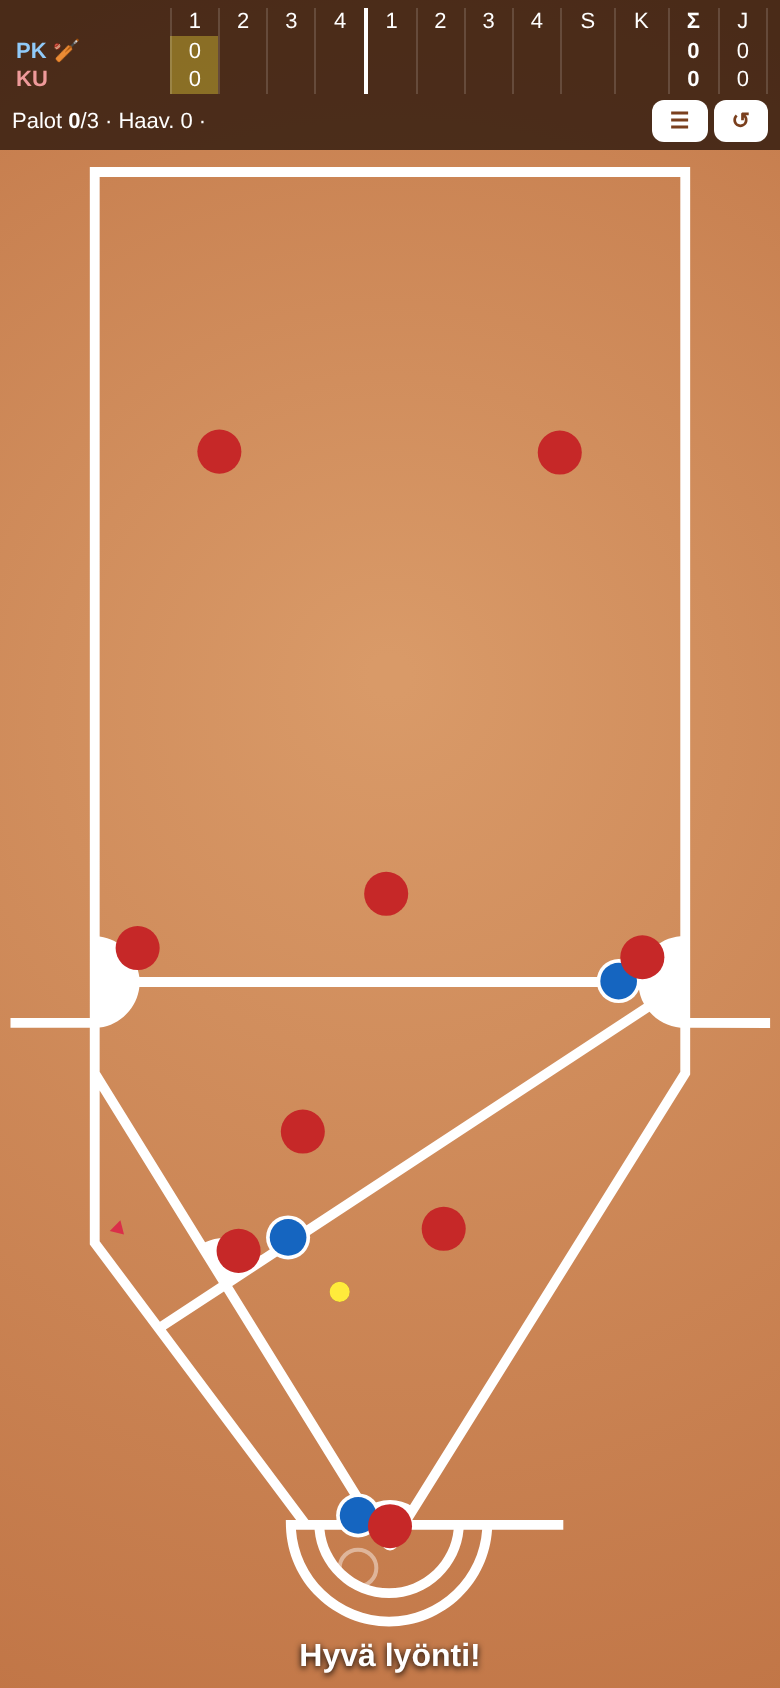
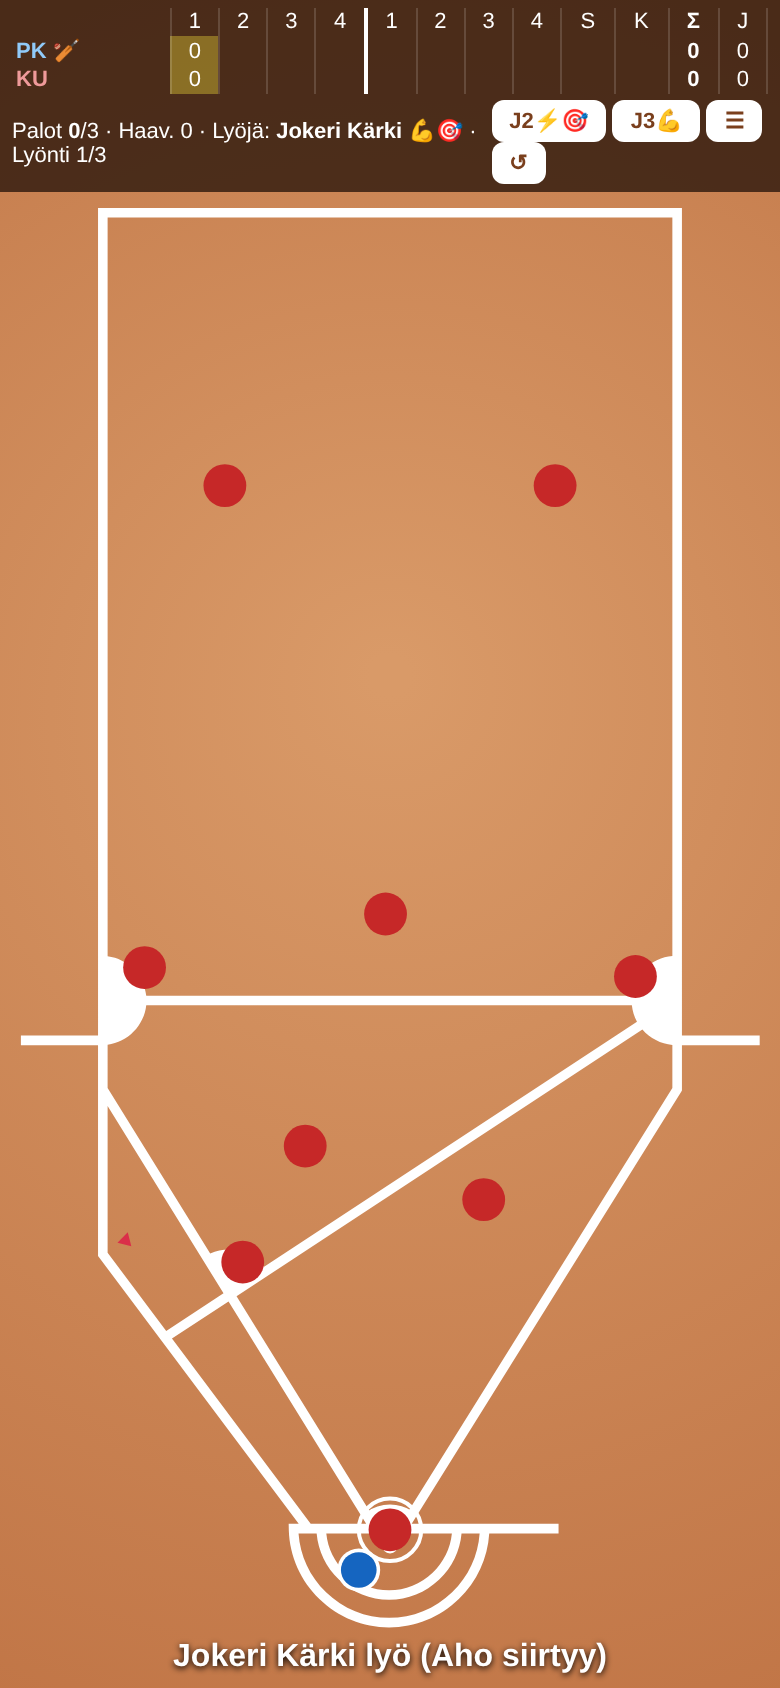
Jokerit, lähtö syötöstä, AI-viiveet ja pisteiden tasapainotus

diff --git a/index.html b/index.html
@@ -15,7 +15,7 @@ button{font:inherit;border:0;border-radius:6px;padding:4px 9px;background:#fff;c
 #ovc h2{margin:0 0 8px}#ovc table{width:100%;font-size:13px;border-collapse:collapse}#ovc td{padding:2px 4px;border-bottom:1px solid rgba(255,255,255,.1)}
 #ovb{margin-top:12px;width:100%;padding:10px;font-size:16px}</style></head><body>
 <canvas id="c"></canvas>
-<div id="hud"><table id="sb"></table><div id="info"><span id="st"></span><span><button id="rb">☰</button> <button id="rs">↺</button></span></div></div>
+<div id="hud"><table id="sb"></table><div id="info"><span id="st"></span><span><span id="jb"></span> <button id="rb">☰</button> <button id="rs">↺</button></span></div></div>
 <div id="msg"></div><div id="ov"><div id="ovc"><div id="ovt"></div><button id="ovb">OK</button></div></div>
 <script>
 "use strict";
@@ -32,8 +32,10 @@ const POS=[[42.5,149],[26,119],[70,87],[15,86],[33,106],[53,112],[42,80],[24,32]
 // ---- joukkueet ----
 const AB={K:['💪','kova lyöjä: pidemmät lyönnit'],T:['🎯','tarkka lyöjä: lyönnit menevät tähdättyyn'],N:['⚡','nopea juoksija/kenttäpelaaja'],C:['🧤','hyvä koppari: suurempi kiinniottoalue'],H:['🏹','tarkka heittäjä: leveämpi vihreä alue'],L:['🌀','lukkari: vähemmän vääriä syöttöjä']};
 const mkT=(name,sh,col,l)=>({name,sh,col,pl:l.map(([n,a])=>({n,a})),next:0,runs:[]});
+const JK=[[['Jokeri Kärki','KT'],['Jokeri Pika','NT'],['Jokeri Moukari','K']],[['Jokeri Ässä','KT'],['Jokeri Salama','N'],['Jokeri Tykki','KN']]];
 const T=[mkT('Pesäkarhut','PK','#1565c0',[['Aho','L'],['Virtanen','KN'],['Korhonen','T'],['Mäkinen','C'],['Nieminen','N'],['Lehtonen','KH'],['Laine','C'],['Heikkinen','TH'],['Koskinen','N']]),
  mkT('Kuninkaat','KU','#c62828',[['Järvinen','L'],['Saarinen','K'],['Salo','TN'],['Hämäläinen','C'],['Lindholm','N'],['Ojala','KH'],['Rantanen','C'],['Kallio','T'],['Peltonen','H']])];
+T.forEach((t,i)=>t.jk=JK[i].map(([n,a])=>({n,a,j:1})));
 const has=(p,c)=>p.a.includes(c),ic=p=>[...p.a].map(c=>AB[c][0]).join('');
 const d2=(a,b)=>Math.hypot(a.x-b.x,a.y-b.y),rnd=Math.random,clamp=(v,a,b)=>Math.max(a,Math.min(b,v));
 let G,F=[],R=[],ball,hold=null,phase='wait',tapMark=null;
@@ -44,15 +46,17 @@ function makeF(t){const pl=t.pl.slice(),out=[];const take=f=>{const i=pl.findInd
 // ---- ottelu ----
 function newGame(){T.forEach(t=>{t.next=0;t.runs=[]});G={pi:0,half:0,stage:'n',over:false,play:0};
  ov('<h2>Pesäpallo</h2>Sinä: <b style="color:#90caf9">Pesäkarhut</b> (kotijoukkue, aloittaa ulkovuorossa).<br>Ottelu: 2 jaksoa × 4 vuoroparia, tasatilanteessa supervuoropari ja kotiutuskilpailu.'+help()+roster(),'Aloita',startHalf);}
-function help(){return '<p><b>Ulkovuoro:</b> napauta kenttää → lukkari syöttää. Kun pallo on pelaajallasi, <b>paina ja pidä</b> pesää tai toista pelaajaa: vapauta kun mittari on vihreällä. Liian lyhyt = hidas heitto, liian pitkä = epätarkka. Pallo pesällä ennen etenijää = palo.</p><p><b>Sisävuoro:</b> lukkari syöttää itse. <b>Napauta kohtaa, johon haluat lyödä</b>, kun pallo putoaa lautaselle (rengas vihertää). Napauta <b>lyöjää</b> lähettääksesi hänet ykköselle ja <b>etenijää</b> lähettääksesi hänet seuraavalle pesälle (myös syötön aikana).</p>'}
-function roster(){let s='<table>';T.forEach(t=>{s+='<tr><td colspan=2 style="color:'+(t===T[0]?'#90caf9':'#ef9a9a')+'"><b>'+t.name+'</b></td></tr>';t.pl.forEach((p,i)=>s+='<tr><td>'+(i+1)+'. '+p.n+'</td><td>'+ic(p)+'</td></tr>')});
+function help(){return '<p><b>Ulkovuoro:</b> napauta kenttää → lukkari syöttää. Kun pallo on pelaajallasi, <b>paina ja pidä</b> pesää tai toista pelaajaa: vapauta kun mittari on vihreällä. Liian lyhyt = hidas heitto, liian pitkä = epätarkka. Pallo pesällä ennen etenijää = palo.</p><p><b>Sisävuoro:</b> lukkari syöttää itse. <b>Napauta kohtaa, johon haluat lyödä</b>, kun pallo putoaa lautaselle (rengas vihertää). <b>Jokerit</b> (J1–J3, yläpalkki): vaihda lyöjä jokeriin ennen ensimmäistä syöttöä, kukin kerran vuorossa. Napauta <b>lyöjää</b> lähettääksesi hänet ykköselle ja <b>etenijää</b> lähettääksesi hänet seuraavalle pesälle (myös syötön aikana).</p>'}
+function roster(){let s='<table>';T.forEach(t=>{s+='<tr><td colspan=2 style="color:'+(t===T[0]?'#90caf9':'#ef9a9a')+'"><b>'+t.name+'</b></td></tr>';t.pl.concat(t.jk).forEach((p,i)=>s+='<tr><td>'+(i+1)+'. '+p.n+'</td><td>'+ic(p)+'</td></tr>')});
  return s+'</table><p style="font-size:12px">'+Object.values(AB).map(a=>a[0]+' '+a[1]).join('<br>')+'</p>'}
 function plabel(){return G.stage==='n'?(G.pi<4?'1. jakso, '+(G.pi+1)+'. vuoropari':'2. jakso, '+(G.pi-3)+'. vuoropari'):G.stage==='s'?'Supervuoropari':'Kotiutuskilpailu'}
-function startHalf(){const bt=batT(),t=T[bt];G.palot=0;G.haav=0;G.pairs=0;G.pairScored=false;R=[];G.queue=[];
+function startHalf(){const bt=batT(),t=T[bt];G.jUsed=[];G.subbed=false;G.palot=0;G.haav=0;G.pairs=0;G.pairScored=false;R=[];G.queue=[];
  for(let i=0;i<9;i++)G.queue.push(t.pl[(t.next+i)%9]);F=makeF(T[1-bt]);if(t.runs[G.pi]==null)t.runs[G.pi]=0;if(T[1-bt].runs[G.pi]==null)T[1-bt].runs[G.pi]=0;
  G.batter=null;if(G.stage==='k')startPair();else nextBatter();resetBall();phase='pre';G.preT=0;
  say(plabel()+': '+(bt===0&&!AUTO?'sinä lyöt':T[bt].name+' lyö'));}
-function nextBatter(){const p=G.queue.shift();G.batter=p||null;G.lyonnit=0;G.vaarat=0;if(p){const t=T[batT()];t.next=(t.pl.indexOf(p)+1)%9}return !!p}
+function useJoker(i){const t=T[batT()],j=t.jk[i];if(!j||!G.batter||G.batter.j||G.jUsed.includes(i)||G.lyonnit>0||phase!=='pre'||G.stage==='k')return false;G.jUsed.push(i);G.queue.unshift(G.batter);G.batter=j;say(j.n+' lyö ('+G.queue[0].n+' siirtyy)');return true}
+function aiJoker(){const t=T[batT()];if(hB()||G.stage==='k'||!G.batter||G.batter.j||G.lyonnit>0)return;const pres=R.some(r=>r.base>=2&&r.st==='safe');if(pres&&!has(G.batter,'K')&&rnd()<.5){const i=[0,1,2].find(i=>!G.jUsed.includes(i));if(i!=null)useJoker(i)}}
+function nextBatter(){const p=G.queue.shift();G.batter=p||null;G.lyonnit=0;G.vaarat=0;if(p){const t=T[batT()];if(t.pl.includes(p))t.next=(t.pl.indexOf(p)+1)%9}return !!p}
 function startPair(){R=[];const a=G.queue.shift();G.queue.push(a);R.push(mkR(a,3));nextBatter();G.queue.push(G.batter);G.pairScored=false;}
 function mkR(p,b){return{p,base:b,st:'safe',from:b,to:b,prog:0,x:B[b].x,y:B[b].y,sp:has(p,'N')?14.5:12.5,bat:false,free:false}}
 function resetBall(){ball={x:PLATE.x,y:PLATE.y,h:0,vx:0,vy:0,vh:0,s:'held',hold:F[0],hit:false,bounced:false};F[0].x=F[0].hx;F[0].y=F[0].hy;hold=null;G.endT=0;G.playT=0;}
@@ -73,7 +77,7 @@ function tot(t){return T[t].runs.slice(0,8).reduce((a,b)=>a+(b||0),0)}
 function finish(w,note){phase='over';G.over=true;G.winner=w;const r=w<0?'Tasapeli':(w===0?'VOITIT! ':'Hävisit. ')+T[w].name+' voitti ottelun.';
  if(AUTO){updHud();return}ov('<h2>Ottelu päättyi</h2>'+note+'<br><b>'+r+'</b><br>Jaksot '+jaksoWins().join('–')+', juoksut '+tot(0)+'–'+tot(1),'Uusi ottelu',newGame)}
 // ---- syöttö & lyönti ----
-function doPitch(){if(phase!=='pre')return;phase='pitch';G.play++;G.swung=false;G.playT=0;const L=F[0].p,va=rnd()<(has(L,'L')?.07:.17);
+function doPitch(){if(phase!=='pre')return;aiJoker();phase='pitch';G.play++;G.swung=false;G.playT=0;const L=F[0].p,va=rnd()<(has(L,'L')?.07:.17);
  ball={x:PLATE.x+(va?(rnd()<.5?-3.4:3.4):0),y:PLATE.y,h:0,vx:0,vy:0,vh:30,s:'pitch',hold:null,vaara:va,hit:false,bounced:false};
  const bp=G.batter;G.aiH=(!hB()&&bp)?((va&&rnd()<.75)?-1:3.2+(rnd()-.5)*(has(bp,'T')?1.8:3)):-1;}
 function timingQ(){if(ball.vh>=0||ball.h>6||ball.h<.7)return 0;return Math.max(.05,1-Math.abs(ball.h-3.2)/2.8)}
@@ -86,11 +90,11 @@ function doSwing(q,aim){if(G.swung||!G.batter)return;G.swung=true;const p=G.batt
  const low=rnd()<(has(p,'T')?.6:.5),vh=low?2.5+rnd()*5:12+rnd()*12,t=2*vh/40,v=Math.min(dist/(t+.32),32+42*pw*(.4+.6*q));ball={x:PLATE.x,y:PLATE.y-1,h:1,vx:Math.cos(ang)*v,vy:Math.sin(ang)*v,vh,s:'flight',hold:null,hit:true,bounced:false,age:0};
  phase='play';G.playT=0;G.endT=0;G.aiRunT=0;say(q>.75?'Hyvä lyönti!':'Lyönti');
  const forced=G.lyonnit>=3&&G.stage!=='k',lt=t+.3,land={x:clamp(PLATE.x+ball.vx*lt,XL,XR),y:clamp(PLATE.y+ball.vy*lt,YT,YB)};
- const ok=(from,sp)=>{if(!low&&rnd()<.85)return false;const nb=B[(from+1)%4];const lg=d2(B[from],nb);return lg/sp<(t+1.1+d2(land,nb)/42)*(low?1.35:1.05)*(lg>45?.8:1.15)*(.8+rnd()*.4)};
- if(!hB())R.slice().sort((a,b)=>b.base-a.base).forEach(r=>{if(r.st==='safe'&&ok(r.base,r.sp))send(r)});
- if(forced)batterRun();else if(!hB()&&G.stage!=='k'&&ok(0,has(p,'N')?14.5:12.5)&&!occ(1))batterRun()}
+ const ok=(from,sp)=>{if(!low&&rnd()<.85)return false;const nb=B[(from+1)%4];const lg=d2(B[from],nb);return lg/sp<(t+1.1+d2(land,nb)/42)*(low?1.35:1.05)*(lg>45?.8:1.15)*(G.stage==='k'?1.5:1.2)*(.8+rnd()*.4)};
+ if(!hB())R.slice().sort((a,b)=>b.base-a.base).forEach(r=>{if(r.st==='safe'&&ok(r.base,r.sp*1.5))send(r)});
+ if(forced)batterRun();else if(!hB()&&G.stage!=='k'&&ok(0,(has(p,'N')?14.5:12.5)*1.4)&&!occ(1))batterRun();R.forEach(r=>{if(r.st==='run'&&r.playId===G.play&&!r.bat)r.prog=Math.min(.9,r.prog+.9*r.sp/d2(B[r.from],B[r.to]))});}
 function useLyonti(){G.lyonnit++;if(G.lyonnit>=3){if(G.stage==='k'){phase='play';ball={...ball,s:'held',hold:F[0],h:0};return}
- say('3. lyönti – lyöjän on lähdettävä!');phase='play';G.playT=0;G.endT=0;resetHoldLukkari();batterRun();}else{G.dead=.7;phase='dead'}}
+ say('3. lyönti meni – PALO!');G.palot++;G.queue.push(G.batter);G.batter=null;if(G.palot>=3)G.endPalo=.9;phase='play';G.playT=0;G.endT=0;resetHoldLukkari();}else{G.dead=.7;phase='dead'}}
 function resetHoldLukkari(){ball={x:F[0].x,y:F[0].y,h:0,vx:0,vy:0,vh:0,s:'held',hold:F[0],hit:false,bounced:false}}
 function pitchLanded(){if(ball.vaara){G.vaarat++;if(G.vaarat>=2){G.vaarat=0;say('2 väärää – vapaataival!');vapaataival()}else say('Väärä syöttö');G.dead=.7;phase='dead'}
  else{say('Syöttö meni ohi (lyönti)');useLyonti()}}
@@ -110,7 +114,7 @@ function throwTo(t,q){const f=ball.hold,sw=f.sw;let tx=t.x,ty=t.y,sp,dev=0;
  if(q<sw[0])sp=16+18*q/sw[0];else if(q<=sw[1])sp=42;else{sp=40;dev=8+40*Math.min(1,(q-sw[1])/(1-sw[1]))}
  if(dev){const a=rnd()*6.28,r=dev*(.4+.6*rnd());tx+=Math.cos(a)*r;ty+=Math.sin(a)*r;if(hF())say('Epätarkka heitto!')}else if(hF())say(q<sw[0]?'Hidas heitto':'Hyvä heitto!');
  const L=Math.hypot(tx-f.x,ty-f.y)||1;ball={x:f.x,y:f.y,h:1,vx:(tx-f.x)/L*sp,vy:(ty-f.y)/L*sp,vh:0,s:'throw',hold:null,tgt:t,rem:L/sp,hit:false,bounced:true};}
-function catchBy(f,base){ball.s='held';ball.hold=f;ball.h=0;ball.vx=ball.vy=0;ball.x=f.x;ball.y=f.y;G.aiT=0;G.aiD=.45+rnd()*.5;if(base!=null)burnAt(base)}
+function catchBy(f,base){ball.s='held';ball.hold=f;ball.h=0;ball.vx=ball.vy=0;ball.x=f.x;ball.y=f.y;G.aiT=0;G.aiD=.9+rnd()*.7;if(base!=null)burnAt(base)}
 function nearF(p,ex){let b=null,bd=1e9;F.forEach(f=>{if(f===ex)return;const d=d2(f,p);if(d<bd){bd=d;b=f}});return b}
 function aiThrow(h){let best=null,bm=.1;R.forEach(r=>{if(r.st!=='run'||r.free)return;const bp=B[r.to],tr=(1-r.prog)*d2(B[r.from],bp)/r.sp,tb=d2(h,bp)/42+.25;
   const rc=nearF(bp,h);if(d2(rc,bp)>9)return;if(tr-tb>bm){bm=tr-tb;best=r.to}});
@@ -149,7 +153,7 @@ function step(dt){if(G.msgT>0&&(G.msgT-=dt)<=0)$('msg').textContent='';if(phase=
   r.x=a.x+(c.x-a.x)*r.prog;r.y=a.y+(c.y-a.y)*r.prog}
  // AI etenijät pelin aikana
  if(phase==='play'&&!hB()&&G.stage!=='k'||phase==='play'&&!hB()&&G.stage==='k'){G.aiRunT=(G.aiRunT||0)+dt;if(G.aiRunT>.4){G.aiRunT=0;
-  if(!(b.s==='flight'&&b.hit&&!b.bounced))R.slice().sort((x,y)=>(y.base||4)-(x.base||4)).forEach(r=>{if(r.st!=='safe')return;const nb=B[(r.base+1)%4];const lg=d2(B[r.base],nb),rt=lg/r.sp*(lg>45?1.15:.95),bp=b.s==='held'?b.hold:b,bt=(b.s==='held'?Math.max(0,(G.aiD||.5)-(G.aiT||0)):d2(nearF(b,null),b)/12+.6)+d2(bp,nb)/42,far=rt<bt*.85&&rnd()<.5;if(far)send(r)})}}
+  if(!(b.s==='flight'&&b.hit&&!b.bounced))R.slice().sort((x,y)=>(y.base||4)-(x.base||4)).forEach(r=>{if(r.st!=='safe')return;const nb=B[(r.base+1)%4];const lg=d2(B[r.base],nb),rt=lg/r.sp*(lg>45?1.15:.95),bp=b.s==='held'?b.hold:b,bt=(b.s==='held'?Math.max(0,(G.aiD||.5)-(G.aiT||0)):d2(nearF(b,null),b)/12+.6)+d2(bp,nb)/42,far=rt<bt*1.0&&rnd()<.6;if(far)send(r)})}}
  if(phase==='play'){if(b.s==='held'&&!R.some(r=>r.st==='run')&&!hold){G.endT+=dt;if(G.endT>(AUTO?.5:.9))endPlay()}else G.endT=0}}
 function laho(){say('Laiton lyönti!');ball.s='dead';
  R.slice().forEach(r=>{if(r.st!=='run')return;if(r.bat&&r.playId===G.play){R.splice(R.indexOf(r),1);if(G.lyonnit>=3){G.palot++;G.queue.push(r.p);say('Laiton 3. lyönti – PALO!');if(G.palot>=3)G.endPalo=.9}else G.batter=r.p}
@@ -177,7 +181,8 @@ function draw(){const gr=cx.createRadialGradient(W/2,H*.4,10,W/2,H/2,H*.8);gr.ad
 function updHud(){if(!G)return;let s='<tr><td></td>';for(let i=0;i<8;i++)s+='<td'+(i===3?' style="border-right:2px solid #fff"':'')+'>'+(i%4+1)+'</td>';s+='<td>S</td><td>K</td><td><b>Σ</b></td><td>J</td></tr>';const jw=jaksoWins();
  T.forEach((t,ti)=>{s+='<tr><td class="tn" style="color:'+(ti?'#ef9a9a':'#90caf9')+'">'+t.sh+(batT()===ti?' 🏏':'')+'</td>';for(let i=0;i<10;i++){if(i===9){let k=0,any=false;for(let j=9;j<15;j++)if(t.runs[j]!=null){k+=t.runs[j];any=true}s+='<td'+(G.pi>=9?' class="cur"':'')+'>'+(any?k:'')+'</td>';continue}
   s+='<td'+(i===G.pi?' class="cur"':'')+(i===3?' style="border-right:2px solid #fff"':'')+'>'+(t.runs[i]!=null?t.runs[i]:'')+'</td>'}s+='<td><b>'+tot(ti)+'</b></td><td>'+jw[ti]+'</td></tr>'});$('sb').innerHTML=s;const hb=$('hud').getBoundingClientRect().bottom;if(hb!==window.__hb){window.__hb=hb;rsz()}
- const p=G.batter;$('st').innerHTML=(G.stage==='k'?'Pari '+Math.min(5,G.pairs+1)+'/5 · ':'Palot <b>'+G.palot+'</b>/3 · Haav. '+G.haav+' · ')+(p?'Lyöjä: <b>'+p.n+'</b> '+ic(p)+' · Lyönti '+Math.min(3,G.lyonnit+1)+'/3':'')+(G.vaarat?' · Väärät '+G.vaarat:'');}
+ const p=G.batter;{const t=T[batT()];const jh=hB()&&G.stage!=='k'?t.jk.map((j,i)=>G.jUsed.includes(i)?'':'<button onclick="useJoker('+i+');updHud()" title="'+j.n+'">J'+(i+1)+ic(j)+'</button>').join(' '):'';if($('jb').innerHTML!==jh)$('jb').innerHTML=jh}
+ $('st').innerHTML=(G.stage==='k'?'Pari '+Math.min(5,G.pairs+1)+'/5 · ':'Palot <b>'+G.palot+'</b>/3 · Haav. '+G.haav+' · ')+(p?'Lyöjä: <b>'+p.n+'</b> '+ic(p)+' · Lyönti '+Math.min(3,G.lyonnit+1)+'/3':'')+(G.vaarat?' · Väärät '+G.vaarat:'');}
 // ---- syöte ----
 function pos(e){const t=e.changedTouches?e.changedTouches[0]:e;return{x:(t.clientX-OX)/S,y:(t.clientY-OY)/S}}
 function down(e){e.preventDefault();if(!G||phase==='wait'||phase==='over')return;const p=pos(e);
